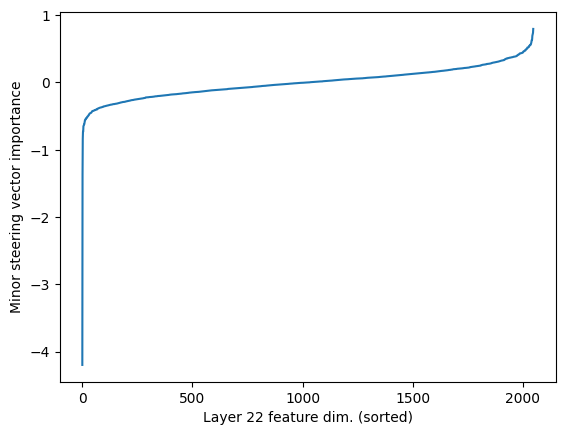
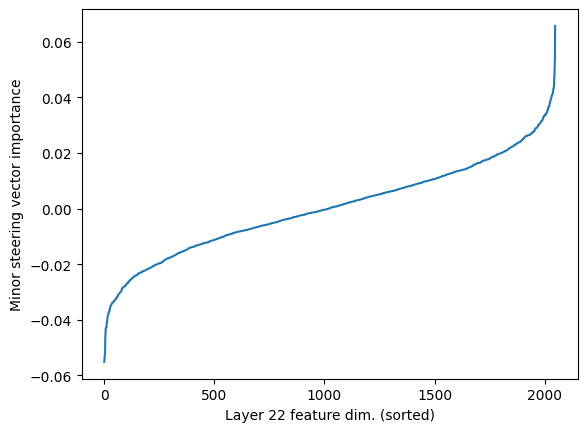
Put audio in grid

diff --git a/site/src/writeup.md b/site/src/writeup.md
@@ -1,4 +1,5 @@
 # Interpretability of Large Music Generation Models Using Linear Probes
+
 William Feng, Harini Thiagarajan, Michelle Wei
 
 # Introduction
@@ -86,7 +87,7 @@ Two control experiments verified that observed effects were specific to the prob
 MusicGen probe accuracy rose from near-chance in early layers (layer 0: 56.3%) through the middle of the network to peak at layer 21 with 62.1% ± 0.5% test accuracy over 1,024 splits, then declined toward the output (layer 47: 57.2%). DiffRhythm showed qualitatively identical patterns across its sampled DiT blocks, peaking at block 12 with 59.3% ± 0.6% accuracy.
 
 ![Linear probe accuracy across DiffRhythm transformer blocks with 95% confidence intervals. Test accuracy peaks at block 12 (59.3%), corresponding to 50% of network depth, significantly above the 50% random baseline shown as a dashed line.](linearprobdr.png)
-*Figure 1: Layer-wise probe accuracy for DiffRhythm demonstrates the characteristic middle-layer bump observed in NLP interpretability. Tonal information peaks at intermediate depth and declines toward the output.*
+_Figure 1: Layer-wise probe accuracy for DiffRhythm demonstrates the characteristic middle-layer bump observed in NLP interpretability. Tonal information peaks at intermediate depth and declines toward the output._
 
 The statistical significance of these results is overwhelming. Computing one-sample $t$-statistics against the 50% null hypothesis:
 
@@ -94,38 +95,38 @@ $$t = \frac{\bar{a} - 0.5}{s/\sqrt{n}}$$
 
 yields $t \approx 75.2$ for MusicGen and $t \approx 48.1$ for DiffRhythm. The corresponding $p$-values are smaller than $10^{-150}$—these are not sampling artifacts or chance fluctuations, but genuine signals that tonal information is encoded in intermediate representations.
 
-| Property | MusicGen | DiffRhythm |
-|----------|----------|------------|
-| Architecture | Autoregressive transformer | Diffusion transformer |
-| Total layers/blocks | 48 | 24 |
-| Peak test accuracy | 62.1% ± 0.5% | 59.3% ± 0.6% |
-| Peak layer (absolute) | 21 | 12 |
-| Peak layer (relative depth) | 44% | 50% |
-| $t$-statistic vs. chance | 75.2 | 48.1 |
+| Property                    | MusicGen                   | DiffRhythm            |
+| --------------------------- | -------------------------- | --------------------- |
+| Architecture                | Autoregressive transformer | Diffusion transformer |
+| Total layers/blocks         | 48                         | 24                    |
+| Peak test accuracy          | 62.1% ± 0.5%               | 59.3% ± 0.6%          |
+| Peak layer (absolute)       | 21                         | 12                    |
+| Peak layer (relative depth) | 44%                        | 50%                   |
+| $t$-statistic vs. chance    | 75.2                       | 48.1                  |
 
-*Table 1: Cross-architecture comparison reveals remarkably similar tonal encoding patterns despite radically different generation mechanisms and training objectives.*
+_Table 1: Cross-architecture comparison reveals remarkably similar tonal encoding patterns despite radically different generation mechanisms and training objectives._
 
 PCA visualization of activations at peak layers reveals partial but incomplete separation between major and minor classes in both models, consistent with the above-chance but imperfect probe accuracy.
 
 ![PCA of MusicGen layer 22 activations colored by detected mode (major in blue, minor in red). Partial separation is visible along the first principal component.](pcamode.png)
-*Figure 2: PCA visualization shows partial major/minor separation in MusicGen layer 22 activations. The substantial class overlap explains the 62% accuracy ceiling—perfect separation would yield much higher accuracy.*
+_Figure 2: PCA visualization shows partial major/minor separation in MusicGen layer 22 activations. The substantial class overlap explains the 62% accuracy ceiling—perfect separation would yield much higher accuracy._
 
 ![PCA of DiffRhythm block 12 activations colored by detected mode (major in blue, minor in orange). Similar partial separation pattern as MusicGen.](pcakeydr.png)
-*Figure 3: DiffRhythm block 12 shows similar PCA structure to MusicGen, supporting the hypothesis that tonal representations emerge similarly across architectures.*
+_Figure 3: DiffRhythm block 12 shows similar PCA structure to MusicGen, supporting the hypothesis that tonal representations emerge similarly across architectures._
 
 ## Sparse Autoencoder Analysis: An Informative Failure
 
 The SAE achieved reconstruction MSE of 0.0188 with 99.22% sparsity—the TopK constraint successfully enforced that only 64 of 8192 features activate per sample. However, 8,061 of 8,192 dictionary features (98.4%) remained "dead"—they never activated on any input across the entire dataset.
 
-| Metric | Value |
-|--------|-------|
-| Dictionary size | 8,192 (4× expansion) |
-| Active features per sample | 64 (TopK constraint) |
-| Dead features | 8,061 (98.4%) |
-| Reconstruction MSE | 0.0188 |
+| Metric                        | Value                  |
+| ----------------------------- | ---------------------- |
+| Dictionary size               | 8,192 (4× expansion)   |
+| Active features per sample    | 64 (TopK constraint)   |
+| Dead features                 | 8,061 (98.4%)          |
+| Reconstruction MSE            | 0.0188                 |
 | Mean feature-mode correlation | 0.02 (not significant) |
 
-*Table 2: SAE statistics reveal catastrophic underutilization of dictionary capacity. Nearly all features remain dead, and surviving features show no tonal specificity.*
+_Table 2: SAE statistics reveal catastrophic underutilization of dictionary capacity. Nearly all features remain dead, and surviving features show no tonal specificity._
 
 For the 131 surviving active features, we examined the key distribution among their top-20 activating clips. No feature showed statistically significant association with specific keys or modes—the distributions closely matched the global dataset distribution, indicating that these features capture general activation patterns rather than tonal content.
 
@@ -140,9 +141,42 @@ At steering strength $\alpha = 15$, 23% of clips originally detected as major we
 Control experiments confirmed that these effects are specific to the probe-derived direction and localized to tonally informative layers. Replacing $v_\text{minor}$ with random unit vectors of the same norm produced flip rates below 2% across all $\alpha$ values tested—statistically indistinguishable from zero. Applying the original $v_\text{minor}$ at layer 5 (early network) or layer 45 (late network) produced flip rates below 5%, far less than the 23% observed at layer 22.
 
 ![Sorted steering vector coefficients across the 2048 dimensions of layer 22 activations. The distribution is highly non-uniform with a few large negative and positive weights.](steering.png)
-*Figure 4: Steering vector weight distribution shows sparse structure. Mode information is concentrated in specific activation dimensions rather than uniformly distributed, consistent with the success of linear probing.*
+_Figure 4: Steering vector weight distribution shows sparse structure. Mode information is concentrated in specific activation dimensions rather than uniformly distributed, consistent with the success of linear probing._
 
-Audio samples demonstrating steering effects across different $\alpha$ values are available in the repository under `notebooks/key_steering/steering_experiments/`. Informal listening confirms that steered generations at moderate $\alpha$ retain musical coherence while exhibiting perceptible shifts in tonal character.
+**Audio Examples:** Steering effects across different $\alpha$ values. Each clip shows the progression from major-biased (α=-15) through baseline (α=0) to minor-biased (α=+15).
+
+<details class="my-4">
+<summary class="cursor-pointer font-semibold">Clip 0034</summary>
+<table class="w-full my-2">
+<tr><td class="py-1">alpha = -15 (toward major)</td><td><audio controls class="w-full max-w-sm"><source src="/steering_experiments/clip_0034/alpha_-15.wav" type="audio/wav"></audio></td></tr>
+<tr><td class="py-1">alpha = -02</td><td><audio controls class="w-full max-w-sm"><source src="/steering_experiments/clip_0034/alpha_-02.wav" type="audio/wav"></audio></td></tr>
+<tr><td class="py-1">alpha = +00 (baseline)</td><td><audio controls class="w-full max-w-sm"><source src="/steering_experiments/clip_0034/alpha_+00.wav" type="audio/wav"></audio></td></tr>
+<tr><td class="py-1">alpha = +02</td><td><audio controls class="w-full max-w-sm"><source src="/steering_experiments/clip_0034/alpha_+02.wav" type="audio/wav"></audio></td></tr>
+<tr><td class="py-1">alpha = +15 (toward minor)</td><td><audio controls class="w-full max-w-sm"><source src="/steering_experiments/clip_0034/alpha_+15.wav" type="audio/wav"></audio></td></tr>
+</table>
+</details>
+
+<details class="my-4">
+<summary class="cursor-pointer font-semibold">Clip 0130</summary>
+<table class="w-full my-2">
+<tr><td class="py-1">alpha = -15 (toward major)</td><td><audio controls class="w-full max-w-sm"><source src="/steering_experiments/clip_0130/alpha_-15.wav" type="audio/wav"></audio></td></tr>
+<tr><td class="py-1">alpha = -02</td><td><audio controls class="w-full max-w-sm"><source src="/steering_experiments/clip_0130/alpha_-02.wav" type="audio/wav"></audio></td></tr>
+<tr><td class="py-1">alpha = +00 (baseline)</td><td><audio controls class="w-full max-w-sm"><source src="/steering_experiments/clip_0130/alpha_+00.wav" type="audio/wav"></audio></td></tr>
+<tr><td class="py-1">alpha = +02</td><td><audio controls class="w-full max-w-sm"><source src="/steering_experiments/clip_0130/alpha_+02.wav" type="audio/wav"></audio></td></tr>
+<tr><td class="py-1">alpha = +15 (toward minor)</td><td><audio controls class="w-full max-w-sm"><source src="/steering_experiments/clip_0130/alpha_+15.wav" type="audio/wav"></audio></td></tr>
+</table>
+</details>
+
+<details class="my-4">
+<summary class="cursor-pointer font-semibold">Clip 0925</summary>
+<table class="w-full my-2">
+<tr><td class="py-1">alpha = -15 (toward major)</td><td><audio controls class="w-full max-w-sm"><source src="/steering_experiments/clip_0925/alpha_-15.wav" type="audio/wav"></audio></td></tr>
+<tr><td class="py-1">alpha = -02</td><td><audio controls class="w-full max-w-sm"><source src="/steering_experiments/clip_0925/alpha_-02.wav" type="audio/wav"></audio></td></tr>
+<tr><td class="py-1">alpha = +00 (baseline)</td><td><audio controls class="w-full max-w-sm"><source src="/steering_experiments/clip_0925/alpha_+00.wav" type="audio/wav"></audio></td></tr>
+<tr><td class="py-1">alpha = +02</td><td><audio controls class="w-full max-w-sm"><source src="/steering_experiments/clip_0925/alpha_+02.wav" type="audio/wav"></audio></td></tr>
+<tr><td class="py-1">alpha = +15 (toward minor)</td><td><audio controls class="w-full max-w-sm"><source src="/steering_experiments/clip_0925/alpha_+15.wav" type="audio/wav"></audio></td></tr>
+</table>
+</details>
 
 # Discussion
 
@@ -154,7 +188,7 @@ This finding has practical implications. Interpretability tools and intuitions d
 
 ## Why Accuracy Is Modest but Meaningful
 
-Peak probe accuracies of 62% and 59% may seem modest compared to classification tasks where models achieve >90% accuracy. However, these numbers must be interpreted in context. Our "ground truth" labels come from `librosa`'s automatic key detection, which itself achieves only ~70% accuracy on clean recordings and likely performs worse on short synthetic clips with potential generation artifacts. The probe cannot outperform its supervision. Additionally, some clips are genuinely ambiguous between relative major and minor keys—A minor and C major share exactly the same notes and differ only in which note receives emphasis. Finally, tonal information may be partially distributed across many dimensions or encoded in partially nonlinear ways that a simple linear classifier cannot fully recover. 
+Peak probe accuracies of 62% and 59% may seem modest compared to classification tasks where models achieve >90% accuracy. However, these numbers must be interpreted in context. Our "ground truth" labels come from `librosa`'s automatic key detection, which itself achieves only ~70% accuracy on clean recordings and likely performs worse on short synthetic clips with potential generation artifacts. The probe cannot outperform its supervision. Additionally, some clips are genuinely ambiguous between relative major and minor keys—A minor and C major share exactly the same notes and differ only in which note receives emphasis. Finally, tonal information may be partially distributed across many dimensions or encoded in partially nonlinear ways that a simple linear classifier cannot fully recover.
 
 The extreme statistical significance ($p < 10^{-150}$) is the more important metric than absolute accuracy. With 1,024 bootstrap samples and tight confidence intervals, we can definitively reject the null hypothesis that these representations contain no tonal information. The modest accuracy reflects ceiling effects from label noise and inherent ambiguity, not absence of signal.
 
